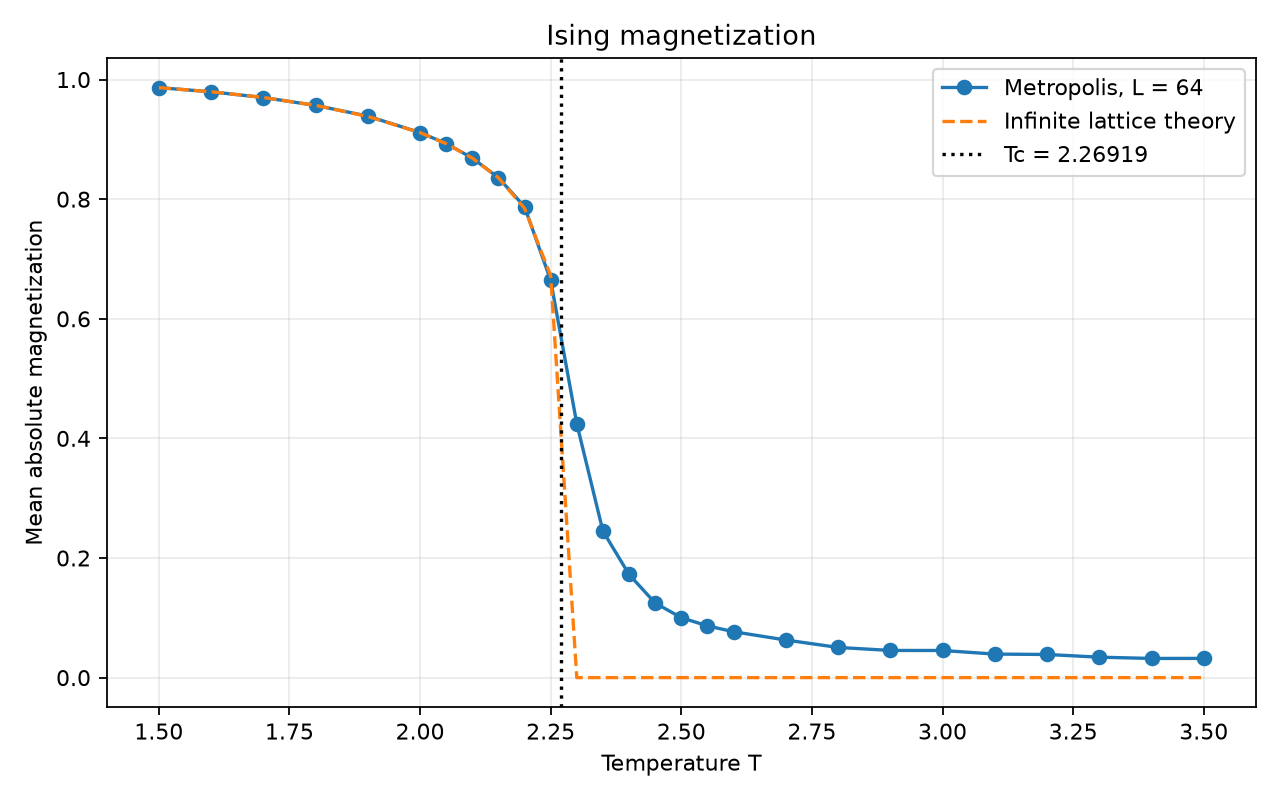
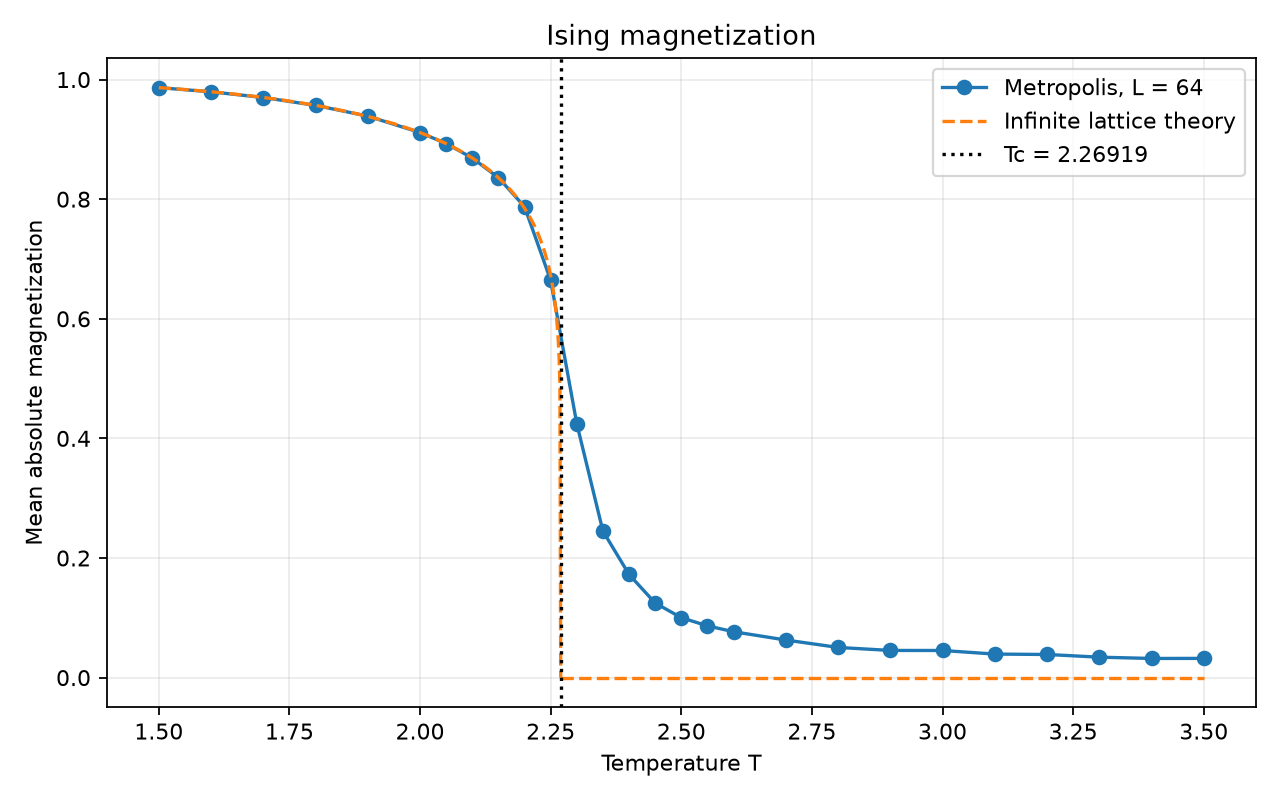
fix: draw dense theoretical magnetization curve

diff --git a/week3/scripts/plot_part2.py b/week3/scripts/plot_part2.py
@@ -21,15 +21,28 @@ def magnetization_plot() -> None:
     data = merged_data(64)
     temperatures = np.array([data[key]["T"] for key in sorted(data)])
     magnetizations = np.array([mean_abs_m(data[key]) for key in sorted(data)])
-    theory = np.zeros_like(temperatures)
-    low_temperature = temperatures < TC
-    theory[low_temperature] = (
-        1 - np.sinh(2 / temperatures[low_temperature]) ** -4
+    # Use an independent dense grid so the analytic curve is not connected
+    # across Tc through the sparse simulation temperatures.
+    theory_below_tc = np.linspace(temperatures.min(), TC, 500, endpoint=False)
+    theory_below_tc = np.append(theory_below_tc, TC)
+    theory_values_below_tc = np.zeros_like(theory_below_tc)
+    below_tc = theory_below_tc < TC
+    theory_values_below_tc[below_tc] = (
+        1 - np.sinh(2 / theory_below_tc[below_tc]) ** -4
     ) ** (1 / 8)
+    theory_above_tc = np.linspace(TC, temperatures.max(), 250)
+    theory_values_above_tc = np.zeros_like(theory_above_tc)
 
     figure, axis = plt.subplots(figsize=(8, 5))
     axis.plot(temperatures, magnetizations, "o-", label="Metropolis, L = 64")
-    axis.plot(temperatures, theory, "--", label="Infinite lattice theory")
+    axis.plot(
+        theory_below_tc,
+        theory_values_below_tc,
+        "--",
+        color="tab:orange",
+        label="Infinite lattice theory",
+    )
+    axis.plot(theory_above_tc, theory_values_above_tc, "--", color="tab:orange")
     axis.axvline(TC, color="black", linestyle=":", label=f"Tc = {TC:.5f}")
     axis.set_xlabel("Temperature T")
     axis.set_ylabel("Mean absolute magnetization")
